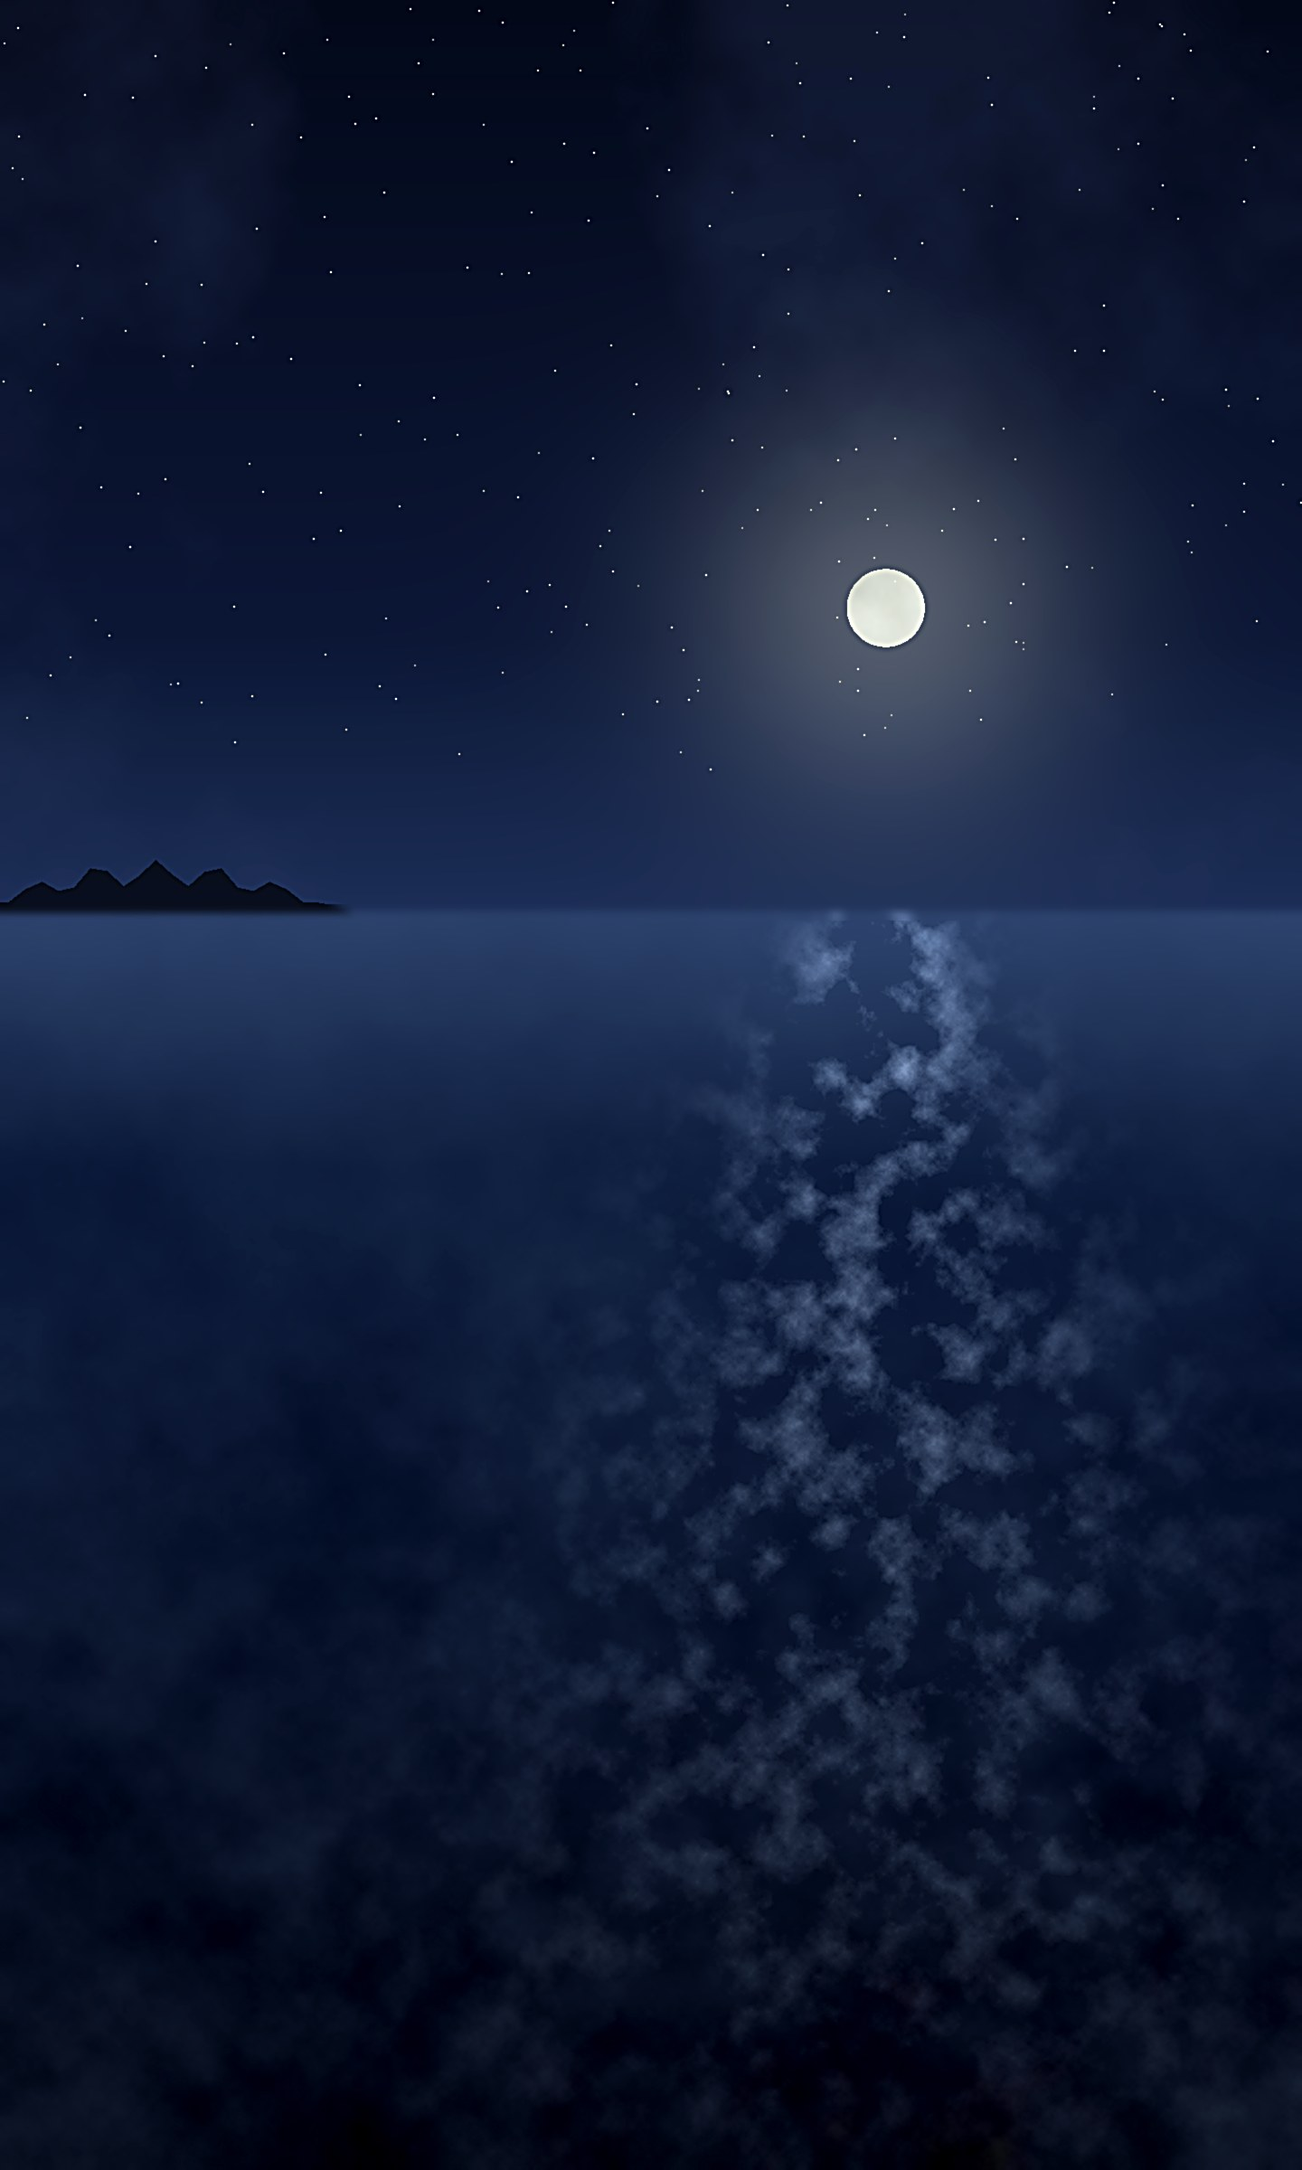
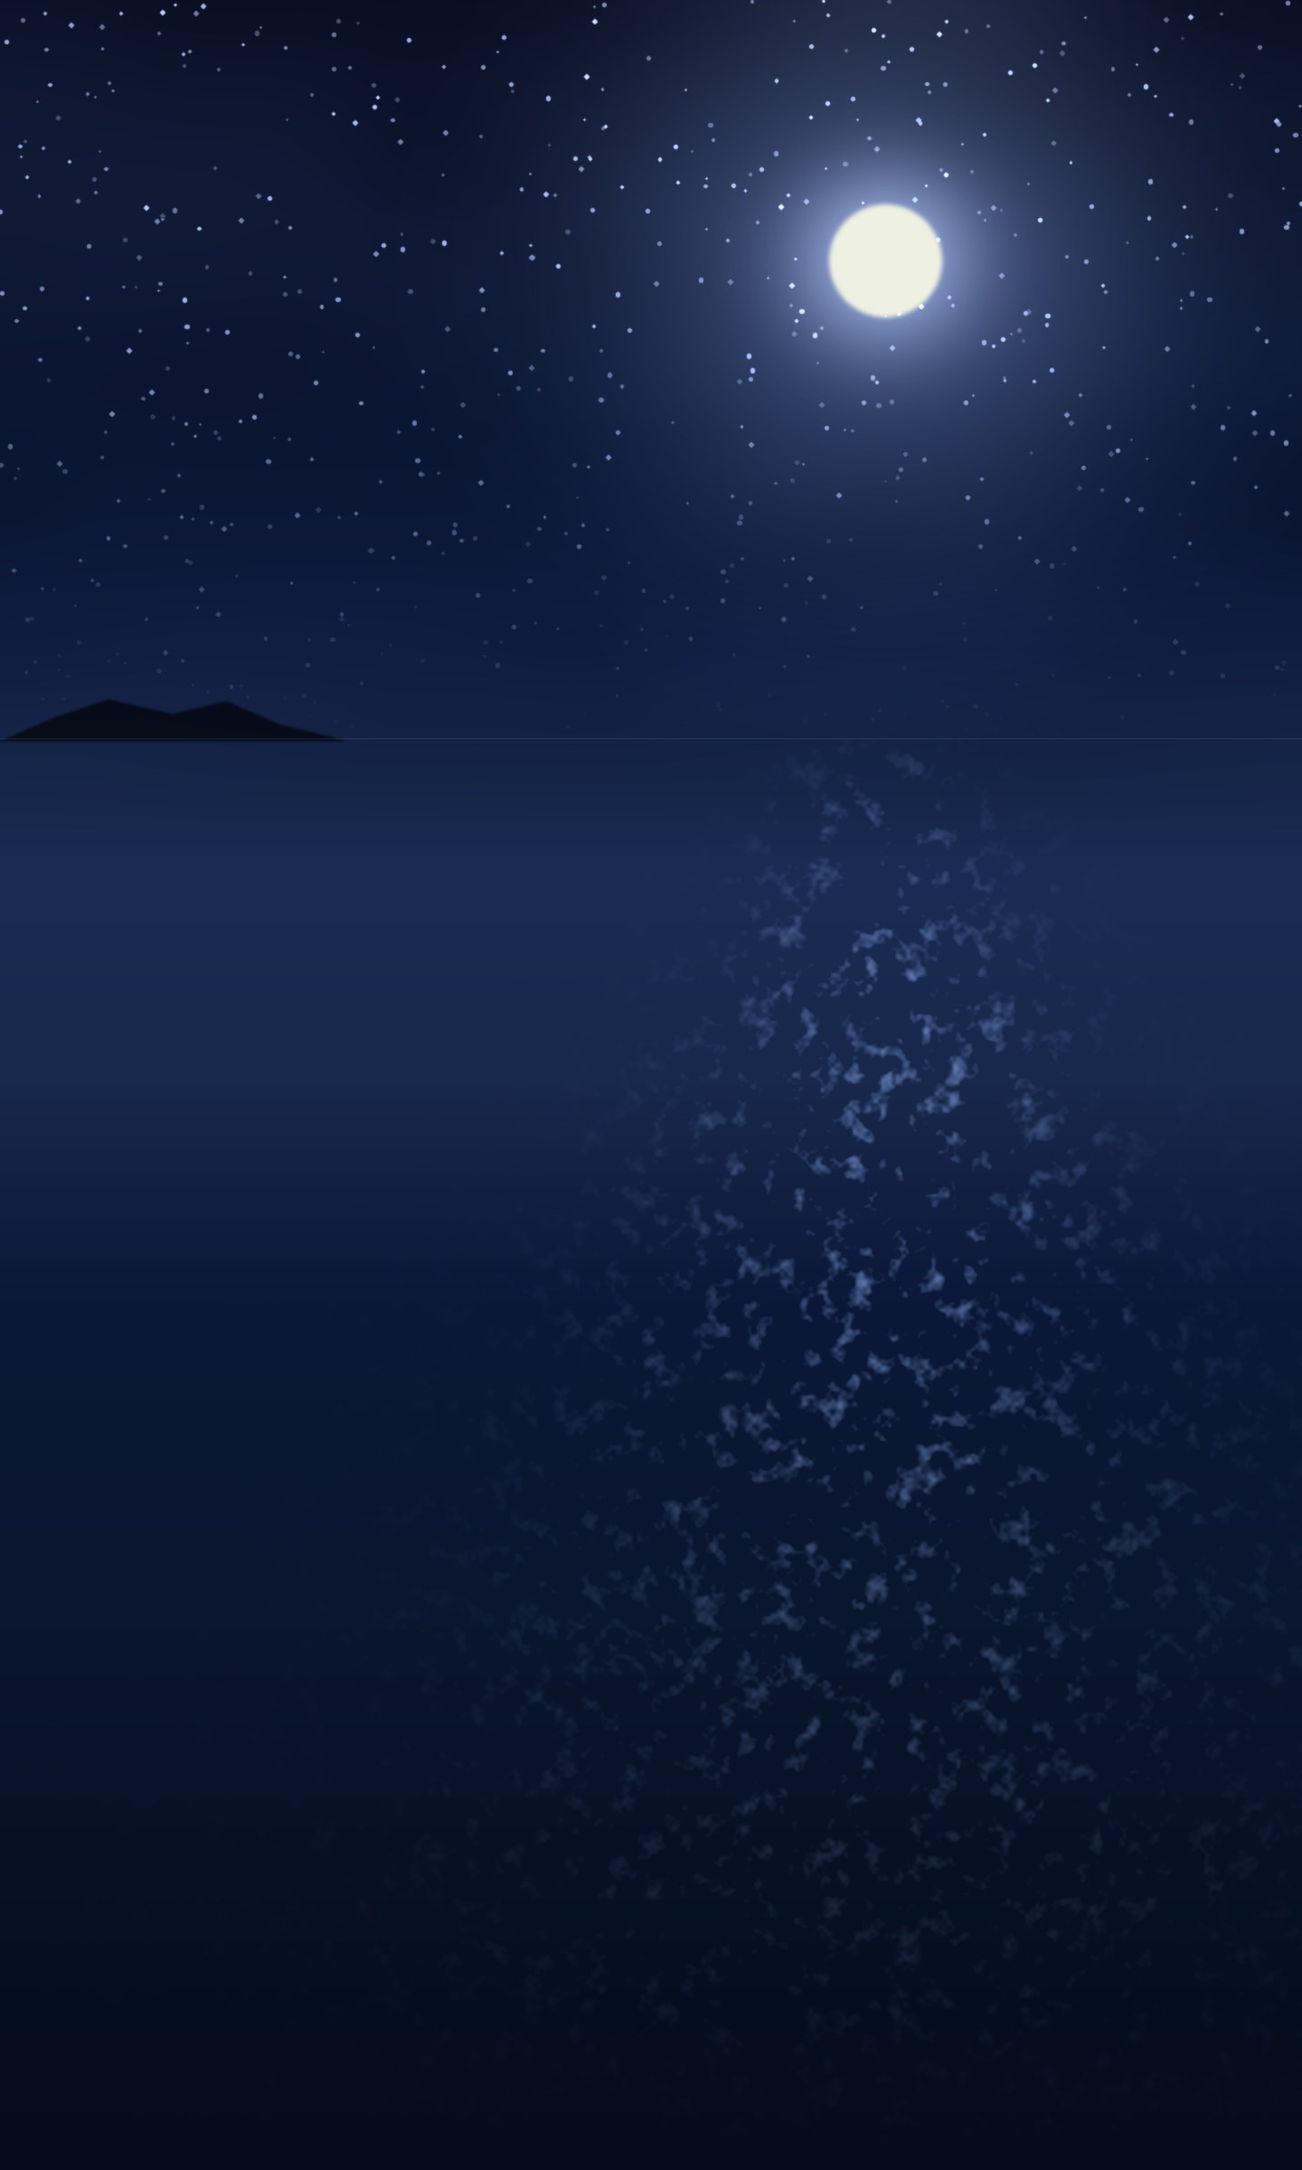
배경 사진 재생성(달 위로·밝은 아침 추가), 2주 예보 라벨, 밝기 모드 설명
- 배경 사진 두 장을 `tool/gen_backgrounds.py`로 **절차적 생성**으로 바꿨다.
  달밤 바다의 달이 높이 28%라 날짜 줄·물때 칩에 가려진다는 제보를 받고,
  기존 사진에서 달만 오려 옮기려다 세 번 실패했다(어두운 고리 / 유령 달 /
  섬 복제·네모 이음매). 달을 찾는 기준부터 틀렸는데 **별이 달 원반보다
  밝아** 밝은 픽셀 무게중심이 별 쪽으로 끌려간 탓이다. 그림을 통째로 다시
  그리면 달·해 위치가 그냥 인자라 이 문제가 전부 사라진다.
- 같은 뼈대로 **밝은 아침**(`sea_bg_morning.jpg`)을 추가하고 설정 배경 사진
  목록에 넣었다. 해도 높이 12%(`SKY_SAFE_TOP`)에 둔다.
- 날씨 상세 제목을 "(향후 2주)" → "(2주 예보)"로 바꿨다.
- 밝기 모드 아래에 "시스템: 휴대폰 설정의 다크 모드를 그대로 따릅니다." 한
  줄을 넣었다(무슨 뜻인지 묻는 제보).
- 설정 화면 위젯 테스트는 항목 위치를 가정하지 않고 스크롤로 찾게 고쳤다 —
  템플릿 섹션이 길어질 때마다 깨졌다.
- 버전 0.4.16+126.

Claude-Session: https://claude.ai/code/session_01UwJAvLga6vHoPoML5Ts7qP

diff --git a/test/widget_test.dart b/test/widget_test.dart
@@ -141,23 +141,27 @@ void main() {
     await tester.tap(find.byIcon(Icons.settings_outlined));
     await tester.pumpAndSettle();
 
-    // 템플릿(펼침) + 데이터 정확도 + 하단 광고 자리.
+    // 템플릿(펼침) + 하단 광고 자리.
     expect(find.text('템플릿'), findsOneWidget);
     expect(find.text('앱 테마'), findsOneWidget);
-    expect(find.text('데이터 출처와 정확도'), findsOneWidget);
     expect(find.text('바다윈디'), findsOneWidget); // 하단 광고 자리(고정)
 
-    // 정보 항목은 아래로 스크롤해야 보인다(새 섹션 추가로 길어짐).
-    await tester.scrollUntilVisible(
-      find.text('오류신고 및 제휴문의'),
-      200,
-      scrollable: find
-          .descendant(
-            of: find.byType(ListView),
-            matching: find.byType(Scrollable),
-          )
-          .first,
-    );
-    expect(find.text('오류신고 및 제휴문의'), findsOneWidget);
+    // 아래 항목들은 스크롤해야 보인다 — 템플릿 섹션이 길어질 때마다(배경
+    // 사진이 늘거나 설명 줄이 붙을 때마다) 한 화면에서 밀려나므로 **위치를
+    // 가정하지 않고** 스크롤로 찾는다.
+    final listView = find
+        .descendant(
+          of: find.byType(ListView),
+          matching: find.byType(Scrollable),
+        )
+        .first;
+    for (final label in ['데이터 출처와 정확도', '오류신고 및 제휴문의']) {
+      await tester.scrollUntilVisible(
+        find.text(label),
+        200,
+        scrollable: listView,
+      );
+      expect(find.text(label), findsOneWidget);
+    }
   });
 }

diff --git a/lib/features/settings/presentation/settings_screen.dart b/lib/features/settings/presentation/settings_screen.dart
@@ -106,6 +106,15 @@ class _TemplateSection extends ConsumerWidget {
           onSelectionChanged: (s) =>
               ref.read(themeModeProvider.notifier).select(s.first),
         ),
+        const SizedBox(height: 4),
+        // "시스템"이 무슨 뜻인지 묻는 제보가 있었다(2026-08-06) — 폰 자체의
+        // 다크 모드 설정을 그대로 따른다는 뜻이라 한 줄로 밝혀 둔다.
+        Text(
+          '시스템: 휴대폰 설정의 다크 모드를 그대로 따릅니다.',
+          style: Theme.of(
+            context,
+          ).textTheme.bodySmall?.copyWith(color: scheme.onSurfaceVariant),
+        ),
         const SizedBox(height: 8),
         SwitchListTile(
           contentPadding: EdgeInsets.zero,
@@ -117,7 +126,7 @@ class _TemplateSection extends ConsumerWidget {
         ),
         if (backdrop) ...[
           _label(context, '배경 사진'),
-          // 물때&날씨 전체화면 배경 사진 선택(자체 생성 이미지 5종, 썸네일).
+          // 물때&날씨 전체화면 배경 사진 선택(자체 생성 이미지 6종, 썸네일).
           // 높이를 상수로 두면 시스템 글자 크기를 키웠을 때 이름 줄이 넘친다
           // — 썸네일(72) + 간격(2) + 라벨 한 줄을 **현재 배율로 계산**한다.
           SizedBox(

diff --git a/lib/features/tide/presentation/tide_screen.dart b/lib/features/tide/presentation/tide_screen.dart
@@ -1078,7 +1078,7 @@ class _WeatherPanel extends ConsumerWidget {
   Widget build(BuildContext context, WidgetRef ref) {
     final forecastAsync = ref.watch(weatherForecastProvider(location));
     return _PanelBox(
-      title: '날씨 · ${location.name} (향후 2주)',
+      title: '날씨 · ${location.name} (2주 예보)',
       child: forecastAsync.when(
         loading: () => const Center(child: CircularProgressIndicator()),
         error: (_, _) => const Center(

diff --git a/lib/features/settings/presentation/providers.dart b/lib/features/settings/presentation/providers.dart
@@ -72,6 +72,7 @@ const backgroundImageChoices = <({String asset, String label})>[
   (asset: 'assets/images/sea_bg_dusk.jpg', label: '보랏빛 황혼'),
   (asset: 'assets/images/sea_bg_night.jpg', label: '달밤 바다'),
   (asset: 'assets/images/sea_bg_emerald.jpg', label: '에메랄드 아침'),
+  (asset: 'assets/images/sea_bg_morning.jpg', label: '밝은 아침'),
 ];
 
 /// 선택된 배경 사진 에셋 경로(설정 > 배경 사진). 저장되어 유지된다.

diff --git a/lib/features/settings/app_info.dart b/lib/features/settings/app_info.dart
@@ -8,7 +8,7 @@ class AppInfo {
   const AppInfo._();
 
   static const appName = '바다윈디';
-  static const appVersion = '0.4.15';
+  static const appVersion = '0.4.16';
   static const releaseDate = '2026-08-03';
 
   /// 오류신고 및 제휴문의 이메일.

diff --git a/tool/gen_backgrounds.py b/tool/gen_backgrounds.py
@@ -1,0 +1,257 @@
+#!/usr/bin/env python3
+"""물때&날씨 화면 배경 사진을 만든다(자체 생성 — 라이선스 없음).
+
+    python3 tool/gen_backgrounds.py
+
+두 장을 그린다.
+
+- `sea_bg_night.jpg` **달밤 바다** — 달이 높이의 28% 지점에 있어 날짜 줄·물때
+  칩에 가려 잘 안 보였다(2026-08-06 사용자 제보). 달을 [SKY_SAFE_TOP]으로
+  올린다.
+- `sea_bg_morning.jpg` **밝은 아침 바다** — 해를 같은 자리에 둔다(사용자 요구).
+
+**원본 사진을 오려 옮기지 않고 통째로 다시 그린다.** 예전엔 기존
+`sea_bg_night.jpg`에서 달과 달무리만 떼어 위로 옮기려 했는데 세 번 실패했다:
+① 원래 자리에서 달무리를 빼면 하늘 밝기 추정이 조금만 어긋나도 **어두운
+고리**가 남고, ② 덮을 하늘을 좌우 대칭으로 떠 오면 마스크가 원래 달무리를
+되비쳐 **유령 달**이 생기고, ③ 왼쪽 조각을 이어 붙이면 조각 안의 **섬이
+복제**되고 네모난 이음매가 보였다. 게다가 달을 찾는 기준(가장 밝은 픽셀들의
+무게중심)부터 틀렸다 — **별이 달 원반보다 밝아서** 중심이 별 쪽으로 끌려갔다.
+
+그림 자체를 만들면 달·해 위치가 그냥 **인자**라 이 문제가 전부 사라진다.
+두 그림이 같은 뼈대(하늘·바다 그라디언트 → 빛무리 → 물빛 → 섬 → 수평선)를
+쓰므로 나중에 배경을 더 추가하기도 쉽다.
+"""
+
+from pathlib import Path
+
+import numpy as np
+from PIL import Image, ImageDraw, ImageFilter
+
+ROOT = Path(__file__).resolve().parents[1]
+OUT = ROOT / 'assets/images'
+SIZE = (1440, 2400)
+
+# 화면에서 이 높이 아래로는 날짜 줄·물때 칩·조류세기가 덮는다. 해·달은
+# 이 위에 둬야 보인다.
+SKY_SAFE_TOP = 0.12
+
+# 수평선. 기존 배경들과 같은 자리(높이의 34%)라 화면을 바꿔 껴도 어색하지 않다.
+HORIZON = 0.34
+
+# 해·달의 가로 위치(기존 달밤 바다와 같은 자리).
+LIGHT_X = 0.68
+
+
+# ── 공통 그리기 조각 ───────────────────────────────────────────────
+def _vertical_gradient(stops: list[tuple[float, tuple[int, int, int]]]):
+    """(위치 0~1, RGB) 제어점으로 세로 그라디언트를 만든다."""
+    w, h = SIZE
+    ys = np.linspace(0, 1, h)
+    pos = np.array([s[0] for s in stops])
+    cols = np.array([s[1] for s in stops], dtype=np.float32)
+    out = np.empty((h, 3), dtype=np.float32)
+    for c in range(3):
+        out[:, c] = np.interp(ys, pos, cols[:, c])
+    return np.broadcast_to(out[:, None, :], (h, w, 3)).copy()
+
+
+def _glow(center, radius, color, strength):
+    """[center]를 중심으로 부드럽게 퍼지는 빛무리(더하기용)."""
+    layer = Image.new('L', SIZE, 0)
+    d = ImageDraw.Draw(layer)
+    cx, cy = center
+    # 여러 겹으로 그려 가장자리가 자연스럽게 사라지게.
+    for i in range(14, 0, -1):
+        r = radius * i / 14
+        a = int(strength * (1 - i / 14) ** 1.6)
+        d.ellipse([cx - r, cy - r, cx + r, cy + r], fill=a)
+    layer = layer.filter(ImageFilter.GaussianBlur(radius * 0.18))
+    g = np.asarray(layer).astype(np.float32)[:, :, None] / 255.0
+    return g * np.array(color, dtype=np.float32)
+
+
+def _disk(center, radius, color, softness=2.0):
+    """또렷한 원반(해·달 본체)."""
+    layer = Image.new('L', SIZE, 0)
+    cx, cy = center
+    ImageDraw.Draw(layer).ellipse(
+        [cx - radius, cy - radius, cx + radius, cy + radius], fill=255
+    )
+    layer = layer.filter(ImageFilter.GaussianBlur(softness))
+    m = np.asarray(layer).astype(np.float32)[:, :, None] / 255.0
+    return m, np.array(color, dtype=np.float32)
+
+
+def _stars(count: int, sky_bottom: int, seed: int = 11):
+    """하늘에 뿌리는 별. 수평선에 가까울수록 옅어진다."""
+    w, h = SIZE
+    rng = np.random.default_rng(seed)
+    layer = Image.new('L', SIZE, 0)
+    d = ImageDraw.Draw(layer)
+    for _ in range(count):
+        x = rng.uniform(0, w)
+        y = rng.uniform(0, sky_bottom)
+        fade = 1 - (y / sky_bottom) ** 1.6  # 아래쪽은 대기에 묻힌다
+        r = rng.uniform(1.0, 2.6)
+        a = int(rng.uniform(70, 255) * fade)
+        if a <= 0:
+            continue
+        d.ellipse([x - r, y - r, x + r, y + r], fill=a)
+    layer = layer.filter(ImageFilter.GaussianBlur(0.6))
+    return np.asarray(layer).astype(np.float32)[:, :, None] / 255.0
+
+
+def _clouds(sky_bottom: int, seed: int = 5):
+    """하늘에 낮게 깔린 옅은 구름결(가로로 길쭉한 덩어리)."""
+    w, h = SIZE
+    rng = np.random.default_rng(seed)
+    layer = Image.new('L', SIZE, 0)
+    d = ImageDraw.Draw(layer)
+    for _ in range(70):
+        cx = rng.uniform(-100, w + 100)
+        cy = rng.uniform(sky_bottom * 0.05, sky_bottom * 0.95)
+        rw = rng.uniform(90, 320)
+        rh = rw * rng.uniform(0.16, 0.30)
+        d.ellipse([cx - rw, cy - rh, cx + rw, cy + rh], fill=int(rng.uniform(40, 120)))
+    layer = layer.filter(ImageFilter.GaussianBlur(48))
+    return np.asarray(layer).astype(np.float32)[:, :, None] / 255.0
+
+
+def _light_path(horizon: int, x_frac: float, color, seed: int = 7):
+    """수평선 아래로 번지는 빛의 길(달빛·햇빛이 물결에 부서지는 자국).
+
+    아래로 갈수록 **넓어지고 알갱이도 굵어진다** — 가까운 물결일수록 크게
+    보이는 원근을 흉내 낸 것이라, 폭을 고정하면 세로 띠를 붙여 놓은 것처럼
+    보인다.
+    """
+    w, h = SIZE
+    rng = np.random.default_rng(seed)
+    # 굵기가 다른 잡음을 겹쳐 물결이 부서진 느낌을 낸다.
+    n = np.zeros((h, w), dtype=np.float32)
+    for scale, weight in ((16, 0.5), (8, 0.32), (4, 0.18)):
+        small = rng.random((h // scale + 2, w // scale + 2)).astype(np.float32)
+        big = (
+            Image.fromarray((small * 255).astype(np.uint8))
+            .resize(SIZE, Image.BICUBIC)
+            .filter(ImageFilter.GaussianBlur(scale * 0.25))
+        )
+        n += weight * (np.asarray(big).astype(np.float32) / 255.0)
+
+    yy, xx = np.mgrid[0:h, 0:w]
+    depth = np.clip((yy - horizon) / (h - horizon), 0, 1)
+    half = w * (0.055 + 0.30 * depth)  # 아래로 갈수록 넓게
+    band = np.exp(-((xx - w * x_frac) / half) ** 2)
+    fade = np.sin(np.pi * depth**0.55) ** 1.2  # 수평선·맨 아래는 잦아든다
+    amp = band * fade * np.clip((n - 0.57) * 3.2, 0, 1)
+    return amp[:, :, None] * np.array(color, dtype=np.float32)
+
+
+def _island(img, horizon: int, color, opacity: float):
+    """수평선 왼쪽의 먼 섬(다른 배경들과 같은 자리)."""
+    silhouette = Image.new('L', SIZE, 0)
+    d = ImageDraw.Draw(silhouette)
+    base = horizon + 3
+    pts = [(0, base)]
+    for dx, dy in [
+        (60, -26),
+        (120, -46),
+        (190, -30),
+        (250, -44),
+        (310, -18),
+        (360, -6),
+    ]:
+        pts.append((dx, base + dy))
+    pts.append((380, base))
+    d.polygon(pts, fill=255)
+    m = np.asarray(silhouette.filter(ImageFilter.GaussianBlur(1.2)))
+    m = (m.astype(np.float32) / 255.0)[:, :, None] * opacity
+    return img * (1 - m) + np.array(color, dtype=np.float32) * m
+
+
+def _save(img, dst: Path):
+    out = Image.fromarray(np.clip(img, 0, 255).astype(np.uint8))
+    out = out.filter(ImageFilter.GaussianBlur(0.4))
+    out.save(dst, quality=88, optimize=True)
+
+
+# ── 1. 달밤 바다 ───────────────────────────────────────────────────
+def make_night(dst: Path) -> None:
+    w, h = SIZE
+    horizon = int(h * HORIZON)
+    moon = (int(w * LIGHT_X), int(h * SKY_SAFE_TOP))
+
+    # 제어점은 기존 `sea_bg_night.jpg`의 줄별 색을 그대로 뜬 것이라 색감이
+    # 예전 배경과 거의 같다.
+    img = _vertical_gradient([
+        (0.00, (9, 15, 35)),
+        (0.10, (11, 19, 43)),
+        (0.20, (8, 18, 45)),
+        (0.30, (13, 24, 56)),
+        (0.34, (18, 33, 66)),  # 수평선
+        (0.40, (26, 44, 83)),
+        (0.50, (24, 40, 76)),
+        (0.60, (11, 24, 56)),
+        (0.75, (10, 22, 46)),
+        (1.00, (4, 11, 27)),
+    ])
+
+    img += _clouds(horizon) * np.array([14, 19, 32], dtype=np.float32)
+    img += _stars(650, horizon) * np.array([198, 210, 244], dtype=np.float32)
+
+    # 달무리 → 달 원반 순서. 원반을 나중에 덮어야 가장자리가 또렷하다.
+    img += _glow(moon, 470, (150, 168, 205), 150)
+    img += _glow(moon, 165, (208, 216, 235), 190)
+    m, c = _disk(moon, 62, (238, 240, 226), softness=2.4)
+    img = img * (1 - m) + c * m
+    img += _light_path(horizon, LIGHT_X, (150, 172, 210)) * 0.55
+
+    img = _island(img, horizon, (6, 10, 22), 0.92)
+    img[horizon : horizon + 2] = np.clip(img[horizon : horizon + 2] + 12, 0, 255)
+
+    _save(img, dst)
+    print(f'  → {dst.name}: 달을 높이의 {SKY_SAFE_TOP:.0%} 지점에')
+
+
+# ── 2. 밝은 아침 바다 ──────────────────────────────────────────────
+def make_morning(dst: Path) -> None:
+    w, h = SIZE
+    horizon = int(h * HORIZON)
+    sun = (int(w * LIGHT_X), int(h * SKY_SAFE_TOP))
+
+    img = _vertical_gradient([
+        (0.00, (126, 182, 226)),
+        (0.16, (166, 206, 234)),
+        (0.28, (214, 226, 228)),
+        (0.34, (236, 226, 198)),  # 수평선 부근이 가장 밝다
+        (0.35, (96, 150, 178)),
+        (0.50, (66, 124, 158)),
+        (0.72, (40, 90, 128)),
+        (1.00, (20, 54, 88)),
+    ])
+
+    img += _clouds(horizon, seed=9) * np.array([46, 44, 36], dtype=np.float32)
+    img += _glow(sun, 560, (255, 226, 158), 150)
+    img += _glow(sun, 190, (255, 246, 214), 205)
+    m, c = _disk(sun, 74, (255, 253, 240), softness=6.0)
+    img = img * (1 - m) + c * m
+    img += _light_path(horizon, LIGHT_X, (255, 240, 200), seed=3) * 0.55
+
+    img = _island(img, horizon, (70, 96, 118), 0.72)
+    img[horizon : horizon + 2] = np.clip(img[horizon : horizon + 2] + 22, 0, 255)
+
+    _save(img, dst)
+    print(f'  → {dst.name}: 해를 높이의 {SKY_SAFE_TOP:.0%} 지점에')
+
+
+def main() -> None:
+    print('배경 사진 생성')
+    make_night(OUT / 'sea_bg_night.jpg')
+    make_morning(OUT / 'sea_bg_morning.jpg')
+    for name in ['sea_bg_night.jpg', 'sea_bg_morning.jpg']:
+        p = OUT / name
+        print(f'  {name}: {Image.open(p).size} {p.stat().st_size:,}B')
+
+
+if __name__ == '__main__':
+    main()
